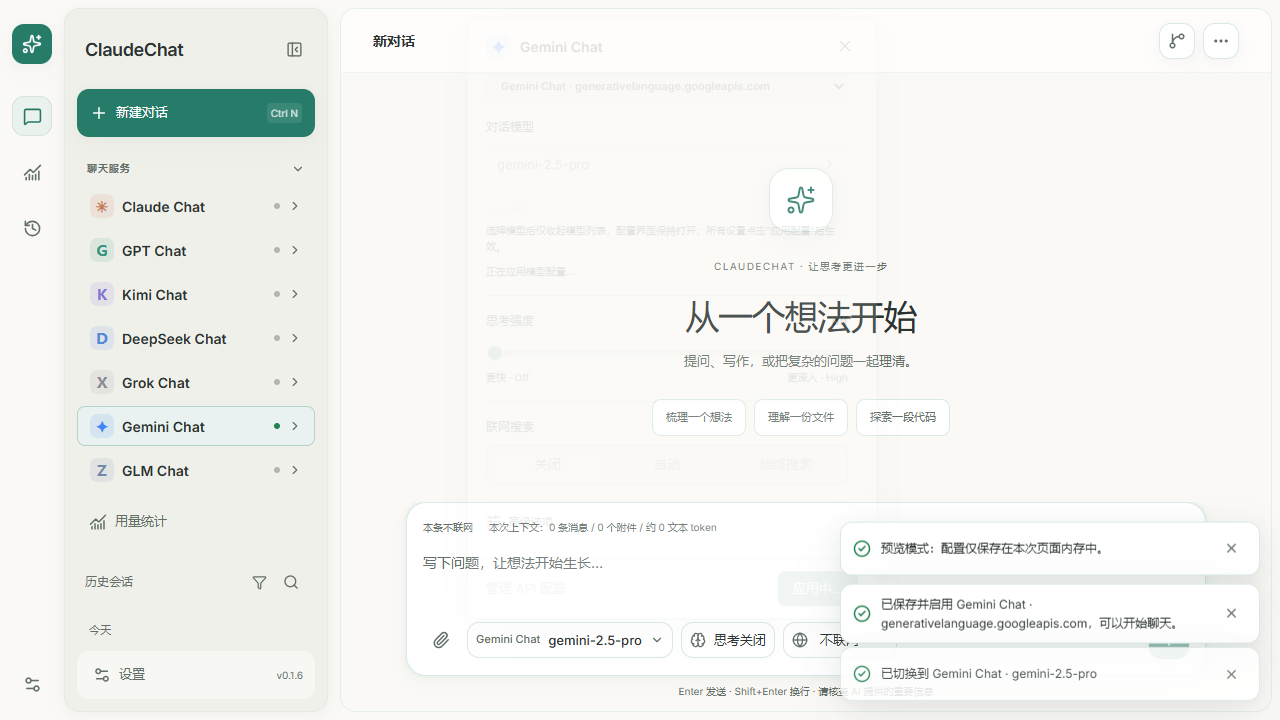
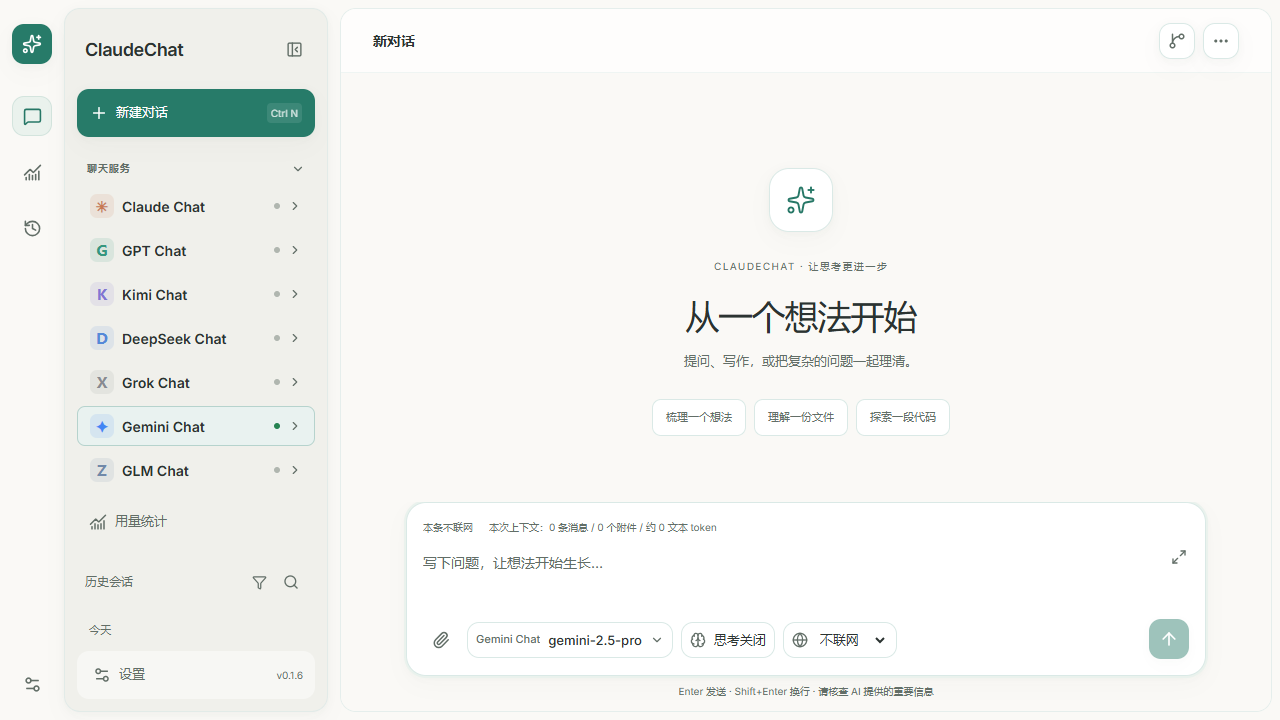
Capture Gemini setup after configuration transitions settle

Changed region(s): [[0.6562, 0.7333, 0.9688, 0.9778], [0.5312, 0.3972, 0.6875, 0.4583]]

diff --git a/tests/browser/gemini.spec.ts b/tests/browser/gemini.spec.ts
@@ -9,6 +9,7 @@ test('Gemini can be configured, selected and reopened with independent preferenc
  await expect(page.locator('.composer-provider-button')).toContainText('Gemini Chat');await expect(page.locator('.composer-provider-button')).toContainText('gemini-2.5-flash')
  await page.locator('.composer-provider-button').click();const panel=page.locator('#chat-provider-panel');await expect(panel.getByRole('combobox',{name:'选择聊天服务'})).toHaveValue('gemini');await panel.getByRole('textbox',{name:'自定义对话模型',exact:true}).fill('gemini-2.5-pro');await panel.getByRole('button',{name:'选择',exact:true}).click();await panel.getByRole('button',{name:'应用配置',exact:true}).click();await expect(page.locator('.composer-provider-button')).toContainText('gemini-2.5-pro')
  const state=await page.evaluate(async()=>{const p='/src/stores/chat.ts',s=(await import(p)).useChatStore();return {provider:s.settings.provider,model:s.settings.model,preference:s.providerPreferences.gemini,search:s.settings.searchProvider}});expect(state.provider).toBe('gemini');expect(state.model).toBe('gemini-2.5-pro');expect(state.preference?.model).toBe('gemini-2.5-pro');expect(state.search).toBe('searxng')
+ await expect(panel).toHaveCount(0);await expect(page.locator('.toast')).toHaveCount(0,{timeout:10000});
  mkdirSync('dist-release/v0.1.6-gemini/screenshots',{recursive:true});await page.locator('.chat-header').hover();await page.screenshot({path:'dist-release/v0.1.6-gemini/screenshots/gemini-configured.png'})
 })
 test('Gemini entry and configuration fit a compact dark window',async({page})=>{
